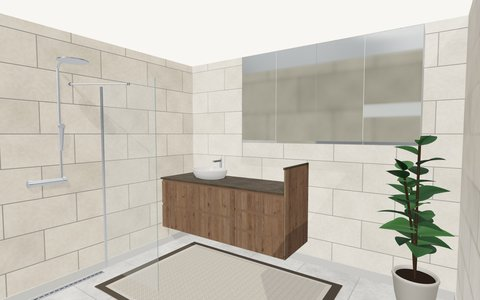
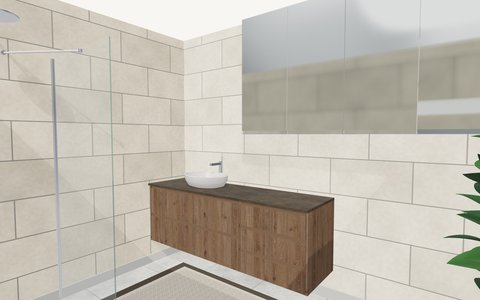
Studio: bath úthlið height in scene, satin edges on mirror doors, drag no longer double-moves nested groups (spegilskápur flew out of the room)

diff --git a/kitchen-planner-3d.js b/kitchen-planner-3d.js
@@ -3865,6 +3865,9 @@
         // úthliðar bound to it (owner, 2026-10-27: they stayed behind while the box flew off; the drop re-attaches them)
         groups:pickables.filter(function(m){ return (m.userData.blockId === bid || (m.userData.lockToId && m.userData.lockToId === bid)) && !m.userData.isPart; }).map(function(m){ return m.parent; })
           .filter(function(g, i, all){ return all.indexOf(g) === i; }) };
+      // a group inside another dragged group moves with it: moving it too applied the offset twice (a spegilskápur's shelves
+      // flew out of the room, owner 2026-10-28)
+      drag.groups = drag.groups.filter(function(g){ return !drag.groups.some(function(o){ var p = g.parent; while (p){ if (p === o) return true; p = p.parent; } return false; }); });
       controls.enabled = false;
     }
     var hovered = null;
@@ -4937,6 +4940,14 @@
       });
     });
     var n = 0;
+    var MIRROR_EDGE = null; // a mirror door is 20 mm slab: its edges (the underside seen from below) are satin, not more mirror (owner, 2026-10-28)
+    groups.forEach(function(gm){ gm[0].forEach(function(o){
+      var gp = o.geometry && o.geometry.parameters;
+      if (!Array.isArray(o.material) && gp && o.geometry.type === "BoxGeometry" && Math.abs(gp.depth - FRONT_T) < 0.0015){
+        MIRROR_EDGE = MIRROR_EDGE || new THREE.MeshStandardMaterial({ color:0xc9ceca, metalness:0.2, roughness:0.45 });
+        var mm0 = o.material; o.material = [MIRROR_EDGE, MIRROR_EDGE, MIRROR_EDGE, MIRROR_EDGE, mm0, MIRROR_EDGE];
+      }
+    }); });
     groups.forEach(function(gm){ var meshes = gm[0], m = gm[1];
       if (++n > 4) return;
       var box = new THREE.Box3(); meshes.forEach(function(o){ box.expandByObject(o); });
